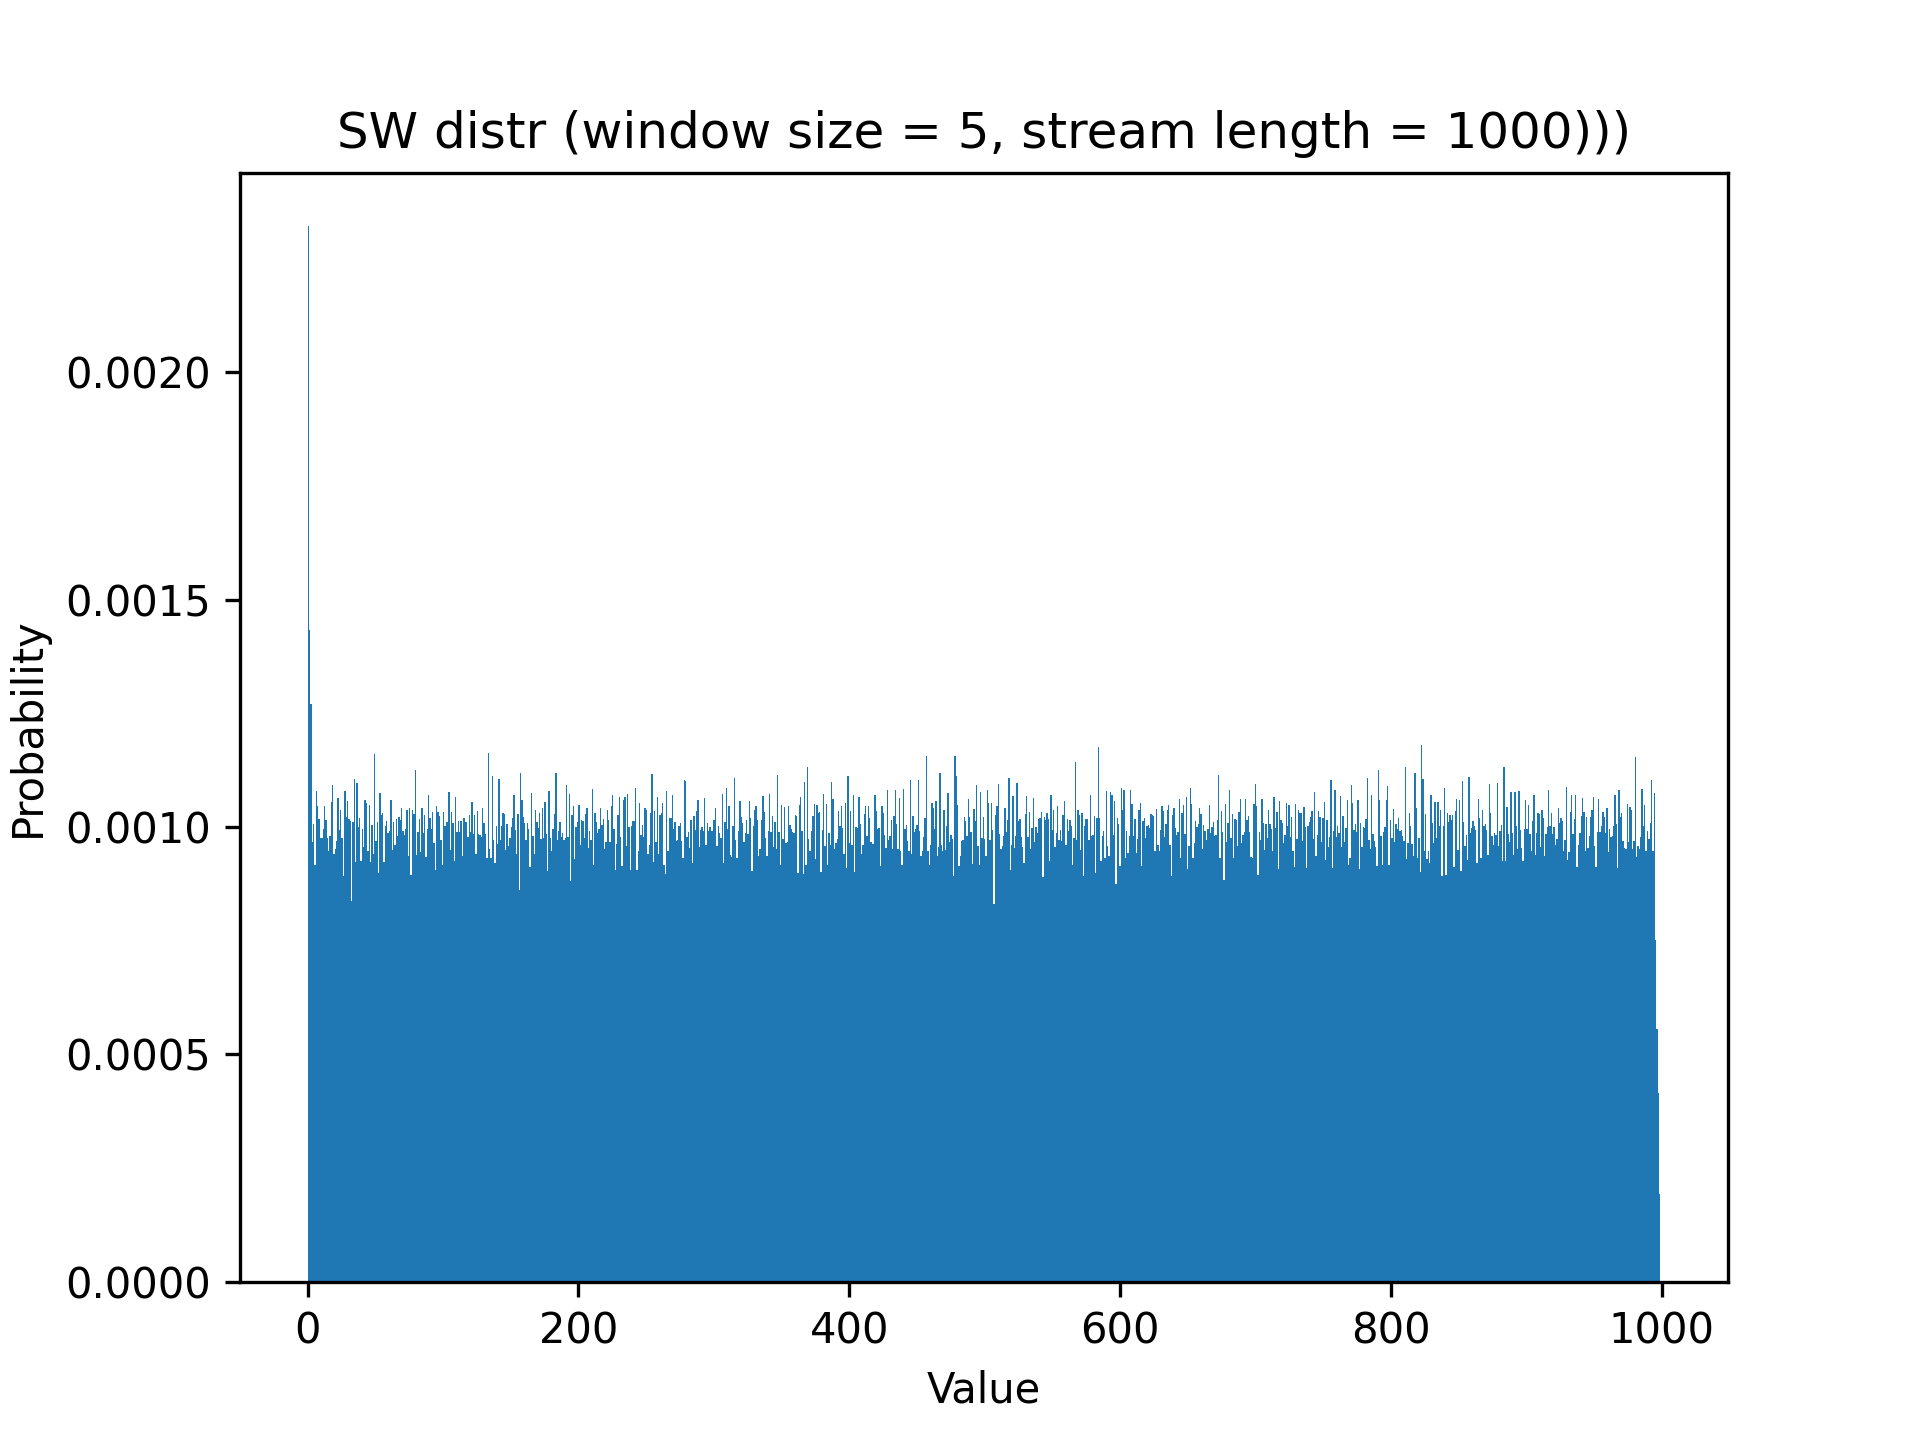
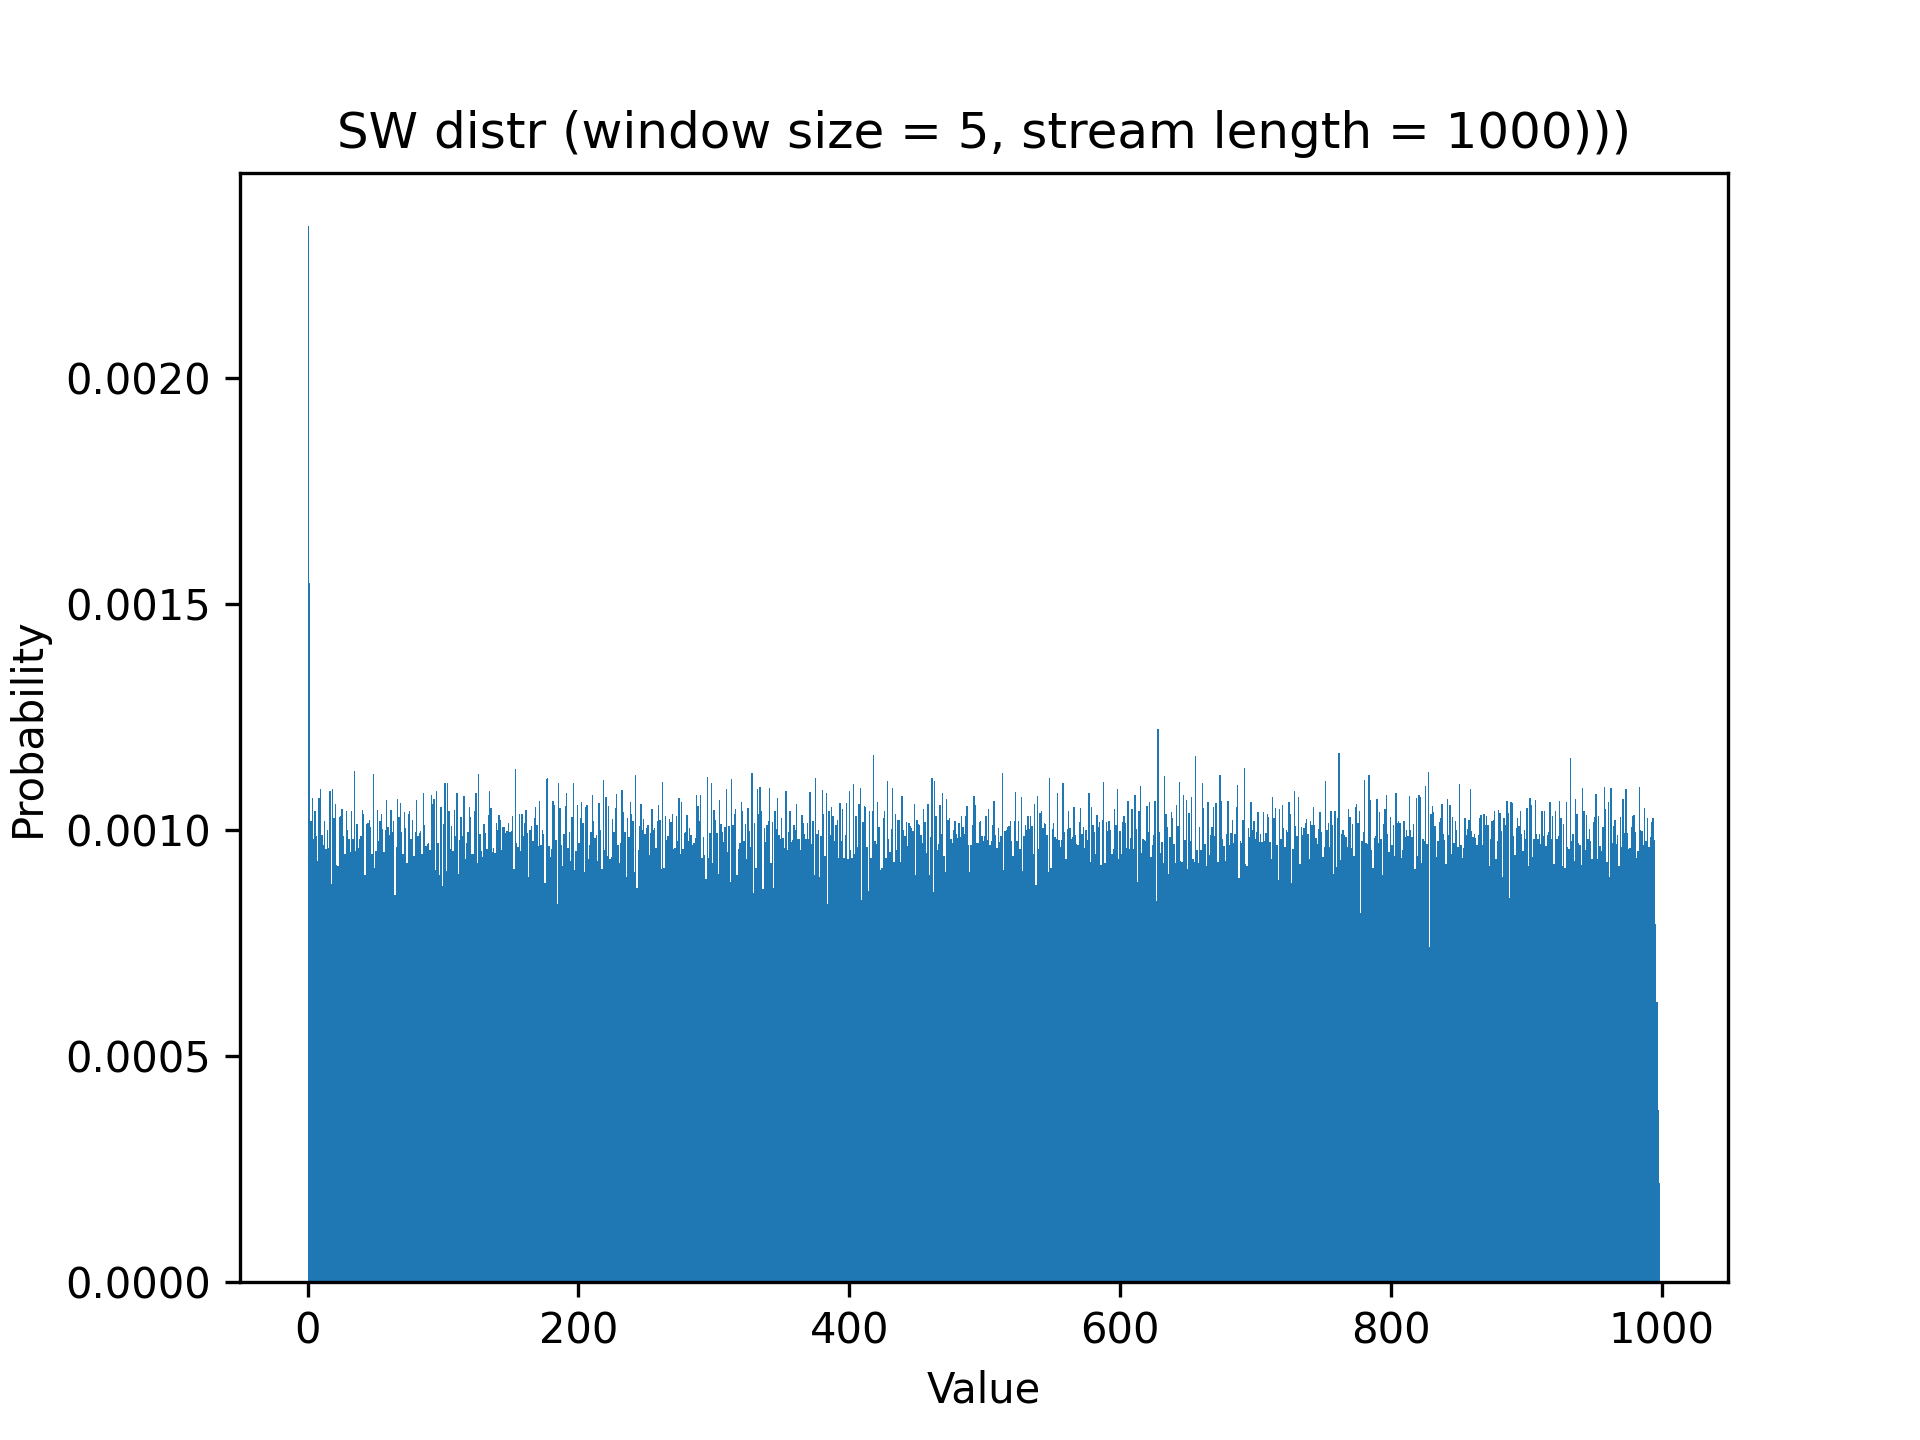
fixed readIdx

diff --git a/ex25/main.py b/ex25/main.py
@@ -47,8 +47,13 @@ class SingleWindow:
             (partial_idx, _) = self.Partial.readData()
             return partial_idx - 1
         else:
-            (active_idx, _) = self.Active.readData()
-            return (self.WindowSize + active_idx - 1 - self.Partial.Seen) % self.WindowSize
+            (active_idx, _)  = self.Active.readData()
+            (partial_idx, _) = self.Partial.readData()
+
+            if active_idx <= self.Partial.Seen:
+                return (partial_idx - 1) + (self.WindowSize - self.Partial.Seen)
+            else:
+                return (active_idx - 1) - self.Partial.Seen
 
 def histogram_test():
     window_size = 5
@@ -71,13 +76,14 @@ def histogram_test():
 def chi_square_test():
     window_size  = 5
     stream_len   = 10000 
-    frequencies  = [0] * 5
+    frequencies  = [0] * window_size
 
     window = SingleWindow(window_size)
     for i in range(stream_len):
         window.onGet(i)
         frequencies[window.readIdx()] += 1
 
+    print(frequencies)
     (chisq, p) = scipy.stats.chisquare(frequencies)
     print(f"Chi-square statistic: {chisq}, p-value: {p}")
 
